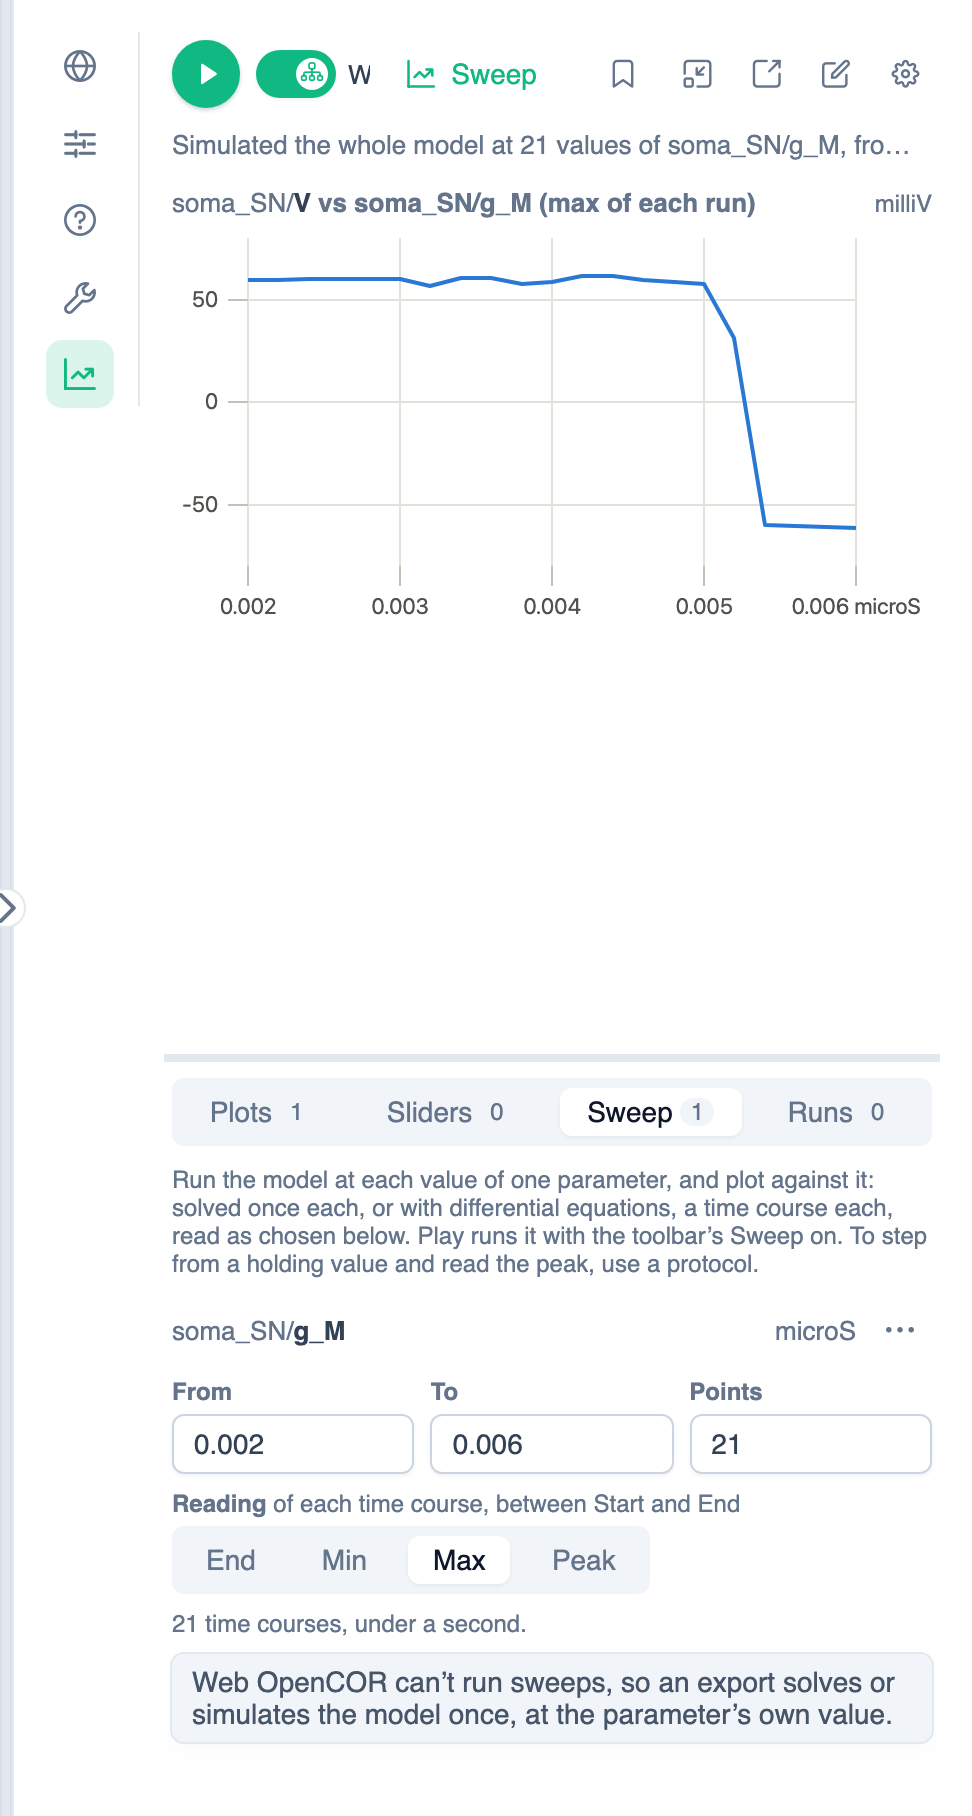
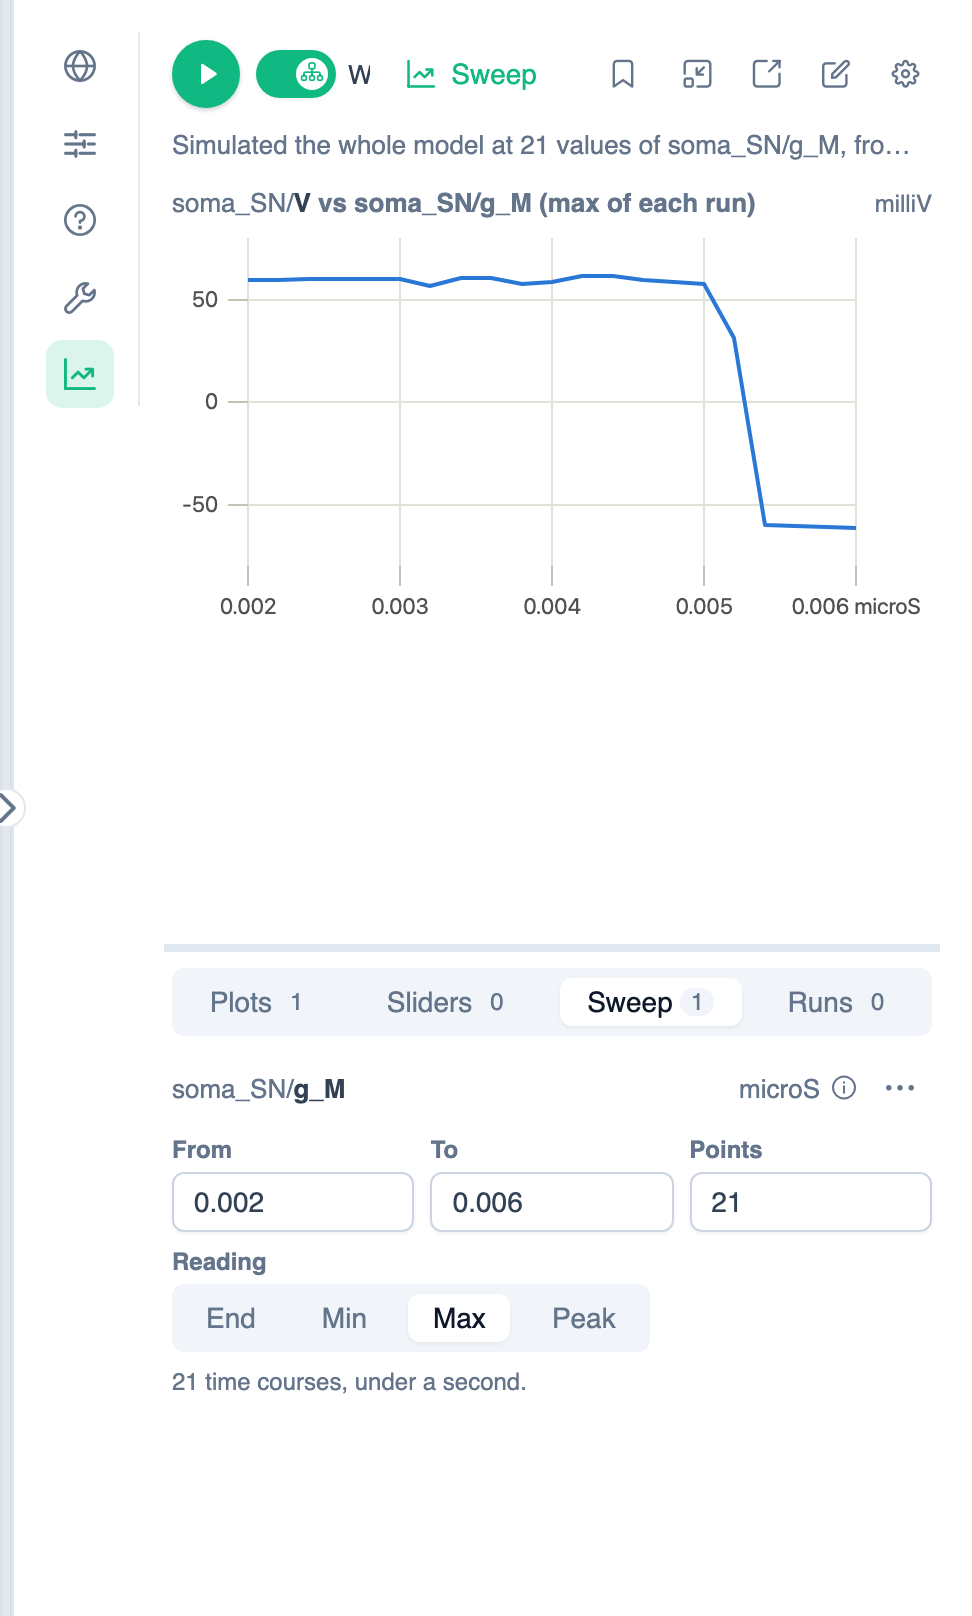
Describe the compact, scope-aware sweep editor and own-value notes
After #770 and #771: the sweep editor's explanations sit behind info
icons, the Reading shows only for models with ODEs, a connected
boundary condition can be swept when its instance runs on its own, and
a boundary condition using its own value is a status-line note, not a
warning. The sweep screenshot is recaptured.

diff --git a/tests/playwright/docs_screenshots.py b/tests/playwright/docs_screenshots.py
@@ -340,7 +340,6 @@ def math_editor(page):
 
 
 def sweep_view(page):
-    page.set_viewport_size({"width": VIEWPORT["width"], "height": 1000})
     open_workspace(page)
     run_whole_model(page)
     plot_variable(page, "soma_SN/V")
@@ -356,7 +355,7 @@ def sweep_view(page):
     page.get_by_test_id("sim-sweep-readout").get_by_text("Max", exact=True).click()
     page.get_by_test_id("sim-sweep-mode").click()
     page.wait_for_function(f"{RESULTS_STORE}.status === 'done' && {RESULTS_STORE}.results?.isSweep", timeout=120000)
-    page.mouse.move(5, 995)
+    page.mouse.move(5, VIEWPORT["height"] - 5)
     page.wait_for_timeout(300)
     dismiss_toasts(page)
     save(page, "sweep-view", clip=page.locator(".resizable-context-panel").bounding_box())

diff --git a/docs/guides/simulating-your-model.md b/docs/guides/simulating-your-model.md
@@ -34,6 +34,8 @@ The line under the toolbar says what the simulation is doing, or what needs atte
 | *… press play to update* | The charts are out of date: the model, settings or selection changed, or they show another run. |
 | An error from the solver | The run failed. Click for the solver's messages; any results up to the failure stay on the charts. Changing the solver settings in [Simulation Settings](#run-length) may help. |
 
+An info icon on the line holds notes: things that are expected but worth knowing, such as boundary conditions using their own values when you simulate a selection. Notes don't count as warnings.
+
 A model with no differential equations is solved once, as a **steady state**, rather than over the VoI. The status line then ends *once: without differential equations, nothing changes over time*, and each plot lists its variables' values in place of a chart.
 
 > [!NOTE]
@@ -48,7 +50,7 @@ To check one instance or a few on their own:
 - **From the Instance Editor:** in the **Plot** tab, set the scope switch to **This instance**.
 
 > [!NOTE]
-> When you simulate a selection, Sum/Multiply inputs that are cut off are dropped, with a warning. A boundary condition with no supplier and no value is set to 0 for that run.
+> When you simulate a selection, Sum/Multiply inputs that are cut off are dropped, with a warning. A boundary condition whose supplier is outside the selection uses its own value; that is expected, so the status line lists it under an info icon rather than as a warning. One with no value is set to 0 for that run.
 
 ### Choosing What to Plot {#choosing-what-to-plot}
 
@@ -118,9 +120,9 @@ With the default settings, soma_SN fires. This sweep finds the M-current conduct
 
 1. Run the whole model once and plot **soma_SN/V**, as in [Running a Simulation](#running-a-simulation). The sweep plots whatever is on the **Plots** view, and uses this run's duration for its time estimate.
 2. Click **Sweep** in the views bar under the charts. It reads *No sweep yet.*
-3. Click **Sweep a parameter** (plus icon), type `g_M` and pick **soma_SN/g_M**. The search only offers what a sweep can vary: constants, global constants, and boundary conditions that nothing connected supplies. *Not in the last run* marks a parameter outside the current scope.
+3. Click **Sweep a parameter** (plus icon), type `g_M` and pick **soma_SN/g_M**. The search only offers what a sweep can vary: constants, global constants, and boundary conditions that nothing supplies in the scope Play runs next. So a connected boundary condition can be swept when you simulate its instance on its own; in a whole-model run, the status line says it *is supplied through a connection in this run*. *Not in the last run* marks a parameter outside the current scope. The info icon beside the parameter explains what a sweep does and what an export makes of it.
 4. The range starts at half the parameter's value either side, with 51 points. Set **From** to `0.002`, **To** to `0.006` and **Points** to `21`. The points are spaced evenly, ends included.
-5. Under **Reading**, click **Max**. The line below now reads *21 time courses*, with an estimate of how long they will take.
+5. Under **Reading** (shown for models with ODEs), click **Max**. The line below now reads *21 time courses*, with an estimate of how long they will take.
 6. Click **Run the sweep** (chart-line icon), which has appeared in the toolbar. It turns into a highlighted **Sweep** button, and the sweep runs at once.
 
 ![The Sweep view after a sweep of g_M](../assets/images/sweep-view.png){.align-center width="550px"}
@@ -129,7 +131,7 @@ The status line reads *Simulated the whole model at 21 values of soma_SN/g_M, fr
 
 ### Choosing the Reading {#sweep-reading}
 
-The reading applies only to models with ODEs. It is taken between **Plots start at** and **Ends at**.
+The **Reading** row appears only for models with ODEs; a model without them is solved once per value. The reading is taken between **Plots start at** and **Ends at**.
 
 | Reading | Takes | Use it for |
 | :--- | :--- | :--- |
@@ -140,7 +142,7 @@ The reading applies only to models with ODEs. It is taken between **Plots start 
 
 For a firing neuron, **Peak** picks the after-hyperpolarisation (about −87 mV here) rather than the spike, because that is further from 0. Use **Max** for spike height.
 
-If **Simulation starts at** is earlier than **Plots start at**, to let the model settle, a note says that the first moments aren't read.
+If **Simulation starts at** is earlier than **Plots start at**, to let the model settle, an info icon beside **Reading** says that the first moments aren't read.
 
 ### Changing and Rerunning {#sweep-rerun}
 

diff --git a/docs/reference/simulation-ui-overview.md b/docs/reference/simulation-ui-overview.md
@@ -39,11 +39,11 @@ Views: **Plots**, **Sliders**, **Sweep**, **Runs**. Search matches every typed w
 
 ### Sweep {#sweep}
 
-**Sweep a parameter**: a constant, global constant, or boundary condition nothing supplies. Results plot against it.
+**Sweep a parameter**: a constant, global constant, or boundary condition nothing supplies in the scope Play runs next (a connected one can be swept when its instance runs on its own). Results plot against it. The info icon explains sweeps and their exports.
 
 - **From / To / Points:** 2 to 1000 points.
 - ⋯ ▸ **Add a curve for each value of…** a second parameter (up to 8 values; 2000 runs max). ⋯ also has **Change parameter…** and **Stop sweeping**.
-- **Reading** of each time course (ODE models): **End** (default), **Min**, **Max** or **Peak** (the value furthest from 0).
+- **Reading** of each time course (shown for ODE models only): **End** (default), **Min**, **Max** or **Peak** (the value furthest from 0).
 - Shows the run count and a time estimate; warns above 200 time courses.
 - The SED-ML download is off while sweeping. Other exports run the model once, at the parameter's own value.
 
